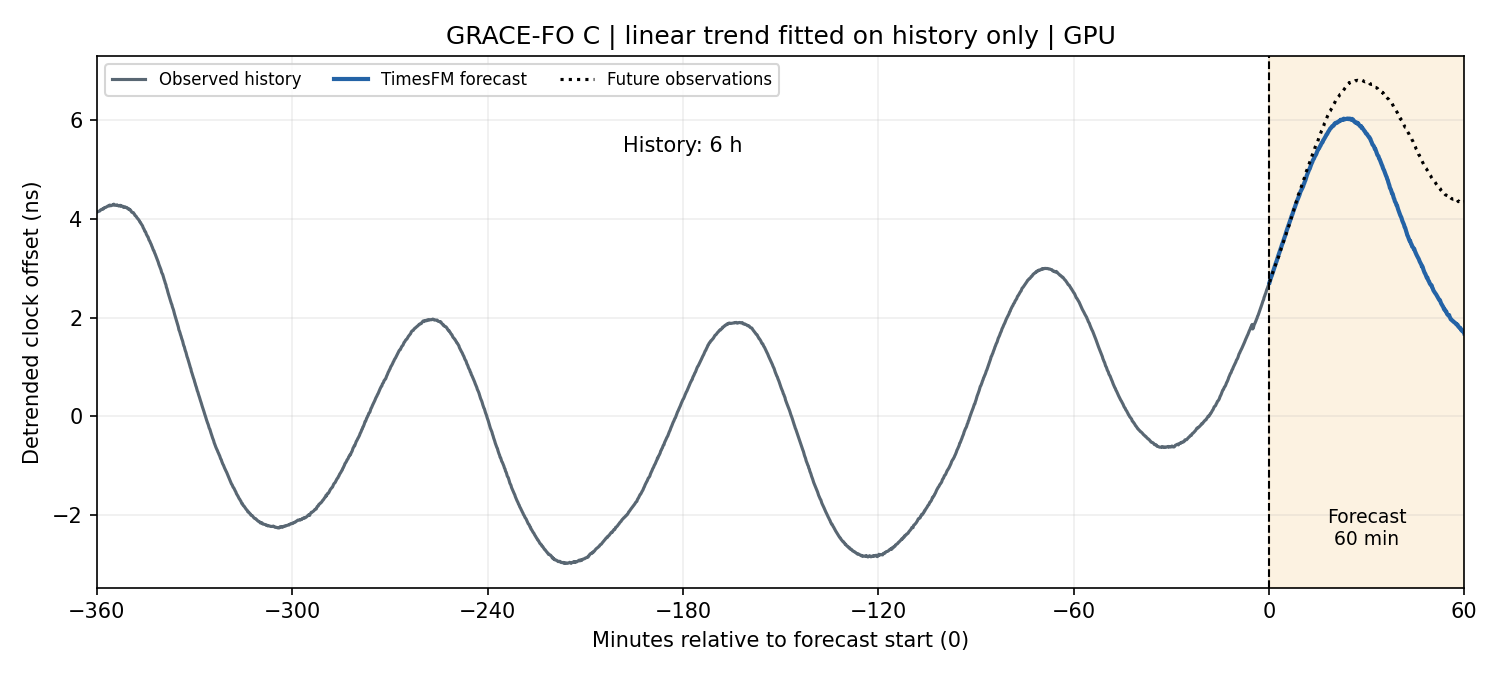
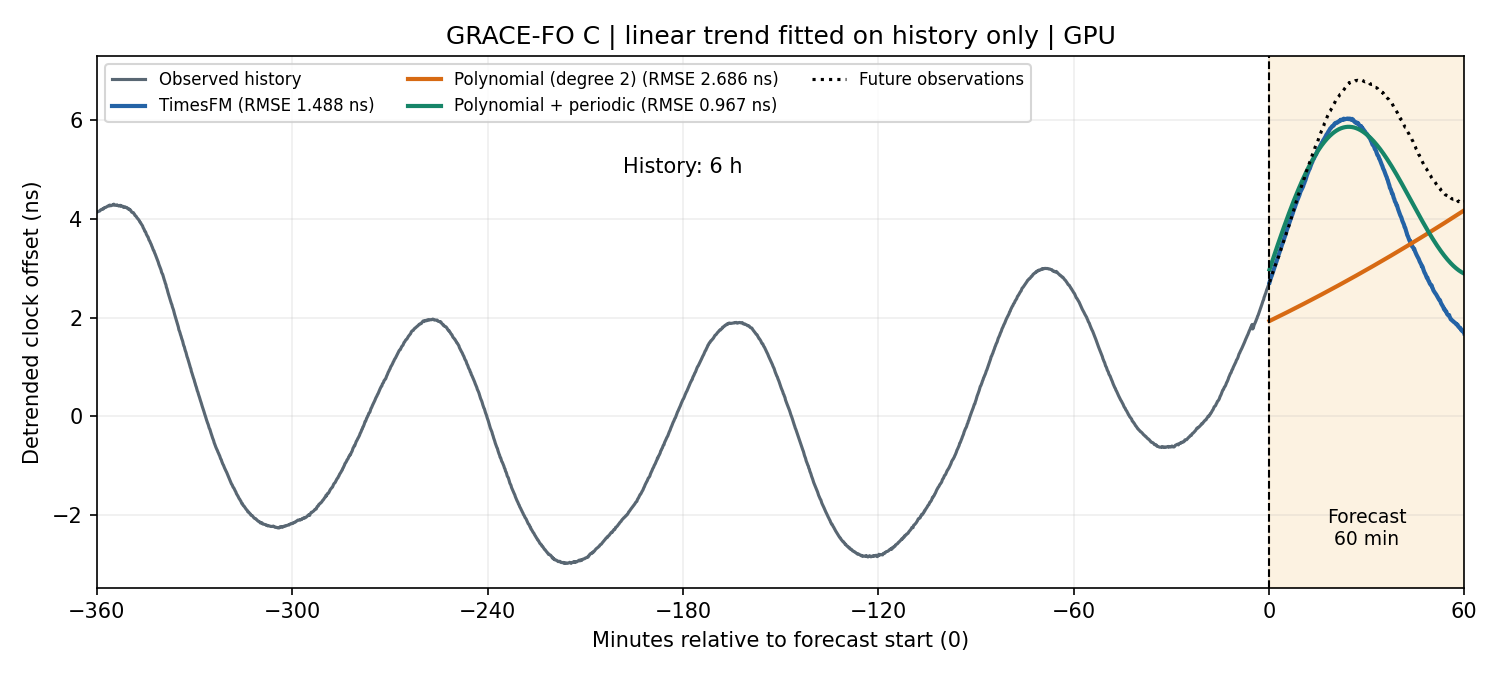
Compare TimesFM with quadratic and periodic clock models

diff --git a/main.py b/main.py
@@ -14,6 +14,29 @@ PREDICT_POINTS = 360
 ROOT = Path(__file__).resolve().parent
 
 
+def polynomial_forecasts(history_ns, horizon):
+    """两个对照都只看历史：二次多项式，以及二次多项式 + 一组正弦/余弦。"""
+    t = np.arange(1 - len(history_ns), 1) / 360  # 小时，起报点为 0
+    future = np.arange(1, horizon + 1) / 360
+    polynomial = np.polyval(np.polyfit(t, history_ns, 2), future)
+
+    def features(hours, period_minutes):
+        phase = 2 * np.pi * hours / (period_minutes / 60)
+        return np.column_stack([np.ones_like(hours), hours, hours**2,
+                                np.sin(phase), np.cos(phase)])
+
+    # 预先固定搜索范围和步长；按历史拟合误差选周期，不查看未来真值。
+    best_mse = np.inf
+    for period in range(60, 151):  # 60–150 分钟，每次增加 1 分钟
+        design = features(t, period)
+        coefficients = np.linalg.lstsq(design, history_ns, rcond=None)[0]
+        mse = np.mean((design @ coefficients - history_ns)**2)
+        if mse < best_mse:
+            best_mse, best_period = mse, period
+            periodic = features(future, period) @ coefficients
+    return polynomial, periodic, best_period
+
+
 def main():
     # 1. 选择 CPU 或 GPU；两者运行相同的模型。
     parser = argparse.ArgumentParser(description=__doc__)
@@ -41,7 +64,9 @@ def main():
     history_ns = (history - last) * 1e9
     print(f"历史 {len(history)} 点 -> 预报 {PREDICT_POINTS} 点，设备：{args.device}")
 
-    # 4. 简单对照：用最近 10 分钟拟合斜率，从最后观测值向后延伸。
+    # 4. 三种模型都只读取历史；多项式对照也使用完整的 6 小时。
+    polynomial, periodic, period = polynomial_forecasts(history_ns, PREDICT_POINTS)
+    # 保留 --model linear 快速示例：最近 10 分钟的斜率，从最后观测值延伸。
     slope, _ = np.polyfit(np.arange(-59, 1), history_ns[-60:], 1)
     linear = slope * np.arange(1, PREDICT_POINTS + 1)
     prediction = linear
@@ -59,23 +84,31 @@ def main():
                 [history_ns.astype(np.float32)], horizon=PREDICT_POINTS,
                 return_quantiles=False, make_positive=False, use_symmetric_averaging=False))
         prediction = result[0].forecast.astype(np.float64)
-    if prediction.shape != (PREDICT_POINTS,) or not np.isfinite(prediction).all():
-        raise ValueError("模型没有返回完整、有效的预报。")
+    forecasts = {args.model: prediction, "polynomial": polynomial, "periodic": periodic}
 
     # 5. 预测完成后才与真实值比较。RMSE 越小，预报越准。
     truth_ns = (truth - last) * 1e9
-    error = prediction - truth_ns
-    linear_error = linear - truth_ns
-    rmse = np.sqrt(np.mean(error**2))
-    print(f"{args.model} RMSE = {rmse:.4f} ns；线性对照 = {np.sqrt(np.mean(linear_error**2)):.4f} ns")
+    labels = {"timesfm": "TimesFM", "linear": "Linear (10 min)",
+              "polynomial": "Polynomial (degree 2)", "periodic": "Polynomial + periodic"}
+    columns = [sample[HISTORY_POINTS:, 0], truth]
+    header = ["receiver_seconds", "true_seconds"]
+    rmses = {}
+    print(f"历史拟合选出的周期：{period} 分钟")
+    for name, values in forecasts.items():
+        if values.shape != (PREDICT_POINTS,) or not np.isfinite(values).all():
+            raise ValueError(f"{name} 没有返回完整、有效的预报。")
+        error = values - truth_ns
+        rmses[name] = np.sqrt(np.mean(error**2))
+        print(f"{labels[name]} RMSE = {rmses[name]:.4f} ns")
+        columns.extend([last + values * 1e-9, error])
+        header.extend([f"{name}_seconds", f"{name}_error_ns"])
 
     # 6. 只输出一个 CSV 和一张图。再次运行会更新同一目录。
     output = ROOT / "outputs" / f"{args.model}-{args.device}"
     output.mkdir(parents=True, exist_ok=True)
-    np.savetxt(output / "prediction.csv", np.column_stack([
-        sample[HISTORY_POINTS:, 0], truth, last + prediction * 1e-9, error]),
-        delimiter=",", header="receiver_seconds,true_seconds,predicted_seconds,error_ns",
-        comments="", fmt=["%.0f", "%.17g", "%.17g", "%.10g"])
+    np.savetxt(output / "prediction.csv", np.column_stack(columns),
+        delimiter=",", header=",".join(header), comments="",
+        fmt=["%.0f", "%.17g"] + ["%.17g", "%.10g"] * len(forecasts))
     minutes = np.arange(1, PREDICT_POINTS + 1) * 10 / 60
     history_minutes = np.arange(1 - HISTORY_POINTS, 1) * 10 / 60
     # 只为绘图：用过去 6 小时拟合直线，历史、真值、预测都减去同一条线。
@@ -85,12 +118,13 @@ def main():
     fig, ax = plt.subplots(figsize=(10, 4.5))
     ax.plot(history_minutes, history_ns - np.polyval(trend, history_minutes),
             color="#596773", label="Observed history")
-    ax.plot(minutes, prediction - future_trend, color="#2463a6", linewidth=2,
-            label="TimesFM forecast" if args.model == "timesfm" else "Linear forecast")
+    for (name, values), color in zip(forecasts.items(), ["#2463a6", "#d76a13", "#168568"]):
+        ax.plot(minutes, values - future_trend, color=color, linewidth=2,
+                label=f"{labels[name]} (RMSE {rmses[name]:.3f} ns)")
     ax.plot(minutes, truth_ns - future_trend, ":", color="black", label="Future observations")
     ax.axvspan(0, minutes[-1], color="#f1b75c", alpha=0.18)
     ax.axvline(0, color="black", linestyle="--", linewidth=1)
-    ax.text(history_minutes[0] / 2, 0.82, f"History: {HISTORY_POINTS * 10 / 3600:g} h",
+    ax.text(history_minutes[0] / 2, 0.78, f"History: {HISTORY_POINTS * 10 / 3600:g} h",
             transform=ax.get_xaxis_transform(), ha="center")
     ax.text(minutes[-1] / 2, 0.08, f"Forecast\n{minutes[-1]:g} min",
             transform=ax.get_xaxis_transform(), ha="center", fontsize=9)

diff --git a/advanced/tests/test_simple.py b/advanced/tests/test_simple.py
@@ -1,14 +1,20 @@
 """Keep the short teaching path aligned with its real source window."""
 import csv
+from contextlib import redirect_stdout
+import io
 import os
 from pathlib import Path
 import subprocess
 import sys
+import tempfile
 import unittest
+from unittest.mock import patch
 
 import numpy as np
 
 ROOT = Path(__file__).resolve().parents[2]
+sys.path.insert(0, str(ROOT))
+import main as simple
 
 
 class SimpleExampleTests(unittest.TestCase):
@@ -29,16 +35,53 @@ class SimpleExampleTests(unittest.TestCase):
         self.assertIn("历史", run.stdout.decode("utf-8"))
         result = np.loadtxt(ROOT / "outputs/linear-cpu/prediction.csv", delimiter=",", skiprows=1)
         sample = np.loadtxt(ROOT / "data/clock.csv", delimiter=",", skiprows=1)
-        self.assertEqual(result.shape, (360, 4))
+        self.assertEqual(result.shape, (360, 8))
         self.assertEqual(result[0, 0], sample[2159, 0] + 10)
         np.testing.assert_array_equal(result[:, :2], sample[2160:])
-        error = (result[:, 2] - result[:, 1]) * 1e9
-        np.testing.assert_allclose(result[:, 3], error, atol=1e-5)
+        for prediction_column in (2, 4, 6):
+            error = (result[:, prediction_column] - result[:, 1]) * 1e9
+            np.testing.assert_allclose(result[:, prediction_column + 1], error, atol=1e-5)
         with (ROOT / "advanced/reference/metrics_by_window.csv").open(encoding="utf-8-sig", newline="") as stream:
             reference = next(row for row in csv.DictReader(stream)
                              if row["satellite"] == "C" and row["origin_receiver_time"] == "2025-06-02 00:00:00"
                              and row["method"] == "anchored_linear_10m" and row["horizon_minutes"] == "60")
         self.assertAlmostEqual(float(np.sqrt(np.mean(result[:, 3]**2))), float(reference["rmse_ns"]), delta=1e-6)
+
+    def test_quadratic_forecast_matches_analytical_future(self):
+        past = np.arange(1 - 2160, 1) / 360
+        future = np.arange(1, 361) / 360
+        polynomial, periodic, _ = simple.polynomial_forecasts(3 + 2 * past + 0.4 * past**2, 360)
+        expected = 3 + 2 * future + 0.4 * future**2
+        np.testing.assert_allclose(polynomial, expected, atol=1e-9)
+        np.testing.assert_allclose(periodic, expected, atol=1e-9)
+
+    def test_recovers_known_period_and_forecasts_unseen_cycle(self):
+        def signal(hours):
+            phase = 2 * np.pi * hours / (97 / 60)
+            return 3 + 2 * hours + 0.4 * hours**2 + 2 * np.sin(phase) - 0.7 * np.cos(phase)
+        past = np.arange(1 - 2160, 1) / 360
+        future = np.arange(1, 361) / 360
+        _, periodic, period = simple.polynomial_forecasts(signal(past), 360)
+        self.assertEqual(period, 97)
+        np.testing.assert_allclose(periodic, signal(future), atol=1e-9)
+
+    def test_future_observations_do_not_change_any_baseline_prediction(self):
+        sample = np.loadtxt(ROOT / "data/clock.csv", delimiter=",", skiprows=1)
+        changed = sample.copy()
+        changed[2160:, 1] += 30e-9
+        results = []
+        with tempfile.TemporaryDirectory() as directory:
+            for data in (sample, changed):
+                with patch.object(simple, "ROOT", Path(directory)), \
+                        patch.object(simple.np, "loadtxt", return_value=data), \
+                        patch.object(sys, "argv", ["main.py", "--model", "linear"]), \
+                        redirect_stdout(io.StringIO()):
+                    simple.main()
+                results.append(np.loadtxt(Path(directory) / "outputs/linear-cpu/prediction.csv",
+                                          delimiter=",", skiprows=1))
+        np.testing.assert_array_equal(results[0][:, [2, 4, 6]], results[1][:, [2, 4, 6]])
+        np.testing.assert_allclose(results[1][:, [3, 5, 7]] - results[0][:, [3, 5, 7]],
+                                   -30, atol=1e-5)
 
 
 if __name__ == "__main__":

diff --git a/README.md b/README.md
@@ -2,12 +2,12 @@
 
 **只读 [main.py](main.py) 一个文件，就能看完实验。**
 
-用 C 星**过去 6 小时的钟差，预测未来 60 分钟**。数据已附带，无需自己下载。
+用 C 星**过去 6 小时的钟差，预测未来 60 分钟**，比较 **TimesFM、二次多项式、二次多项式 + 周期项**。数据已附带，无需自己下载。
 
 默认使用 Google 官方预训练 **TimesFM 3.0**（`google/timesfm-3.0-pytorch`），没有在钟差数据上微调，也没有加载 LoRA；本例是零样本预测。模型自身的内部去趋势保留官方默认设置。
 
 ```text
-读数据 → 取历史 → TimesFM 预测 → 与真实值比较 → 看去趋势后的预报图
+读数据 → 取历史 → 三种模型预测 → 与真实值比较 → 看同一张去趋势图
 ```
 
 ## 1. 准备
@@ -46,13 +46,33 @@ CPU、GPU 使用**相同数据、相同模型**，只是运行设备不同；数
 
 打开 `outputs/timesfm-cpu/result.png`（GPU 对应 `timesfm-gpu`）：
 
-**一张去趋势后的图：过去 6 小时观测 → 起报虚线 → 未来 60 分钟预测。** 灰线是历史，蓝线是预测，黑色点线是未来真实值，仅用于比较；浅黄色区域为预测窗口。
+**一张去趋势后的图：过去 6 小时观测 → 起报虚线 → 未来 60 分钟预测。** 灰线是历史，蓝线为 TimesFM，橙线为多项式，绿线为多项式 + 周期项。黑色点线是未来真实值，仅用于比较；浅黄色区域为预测窗口。
+
+三种模型使用**同一段 6 小时历史**：
+
+| 模型 | 学生需要理解的内容 |
+|---|---|
+| TimesFM | 直接加载官方预训练模型，无需训练 |
+| 二次多项式 | 用最小二乘拟合 `a + b*t + c*t²`，向未来延伸 |
+| 二次多项式 + 周期项 | 在多项式上加 `A*sin(2πt/T) + B*cos(2πt/T)`，描述重复波动 |
+
+`t` 是相对起报点的时间，代码中单位为小时。周期 `T` 在预先固定的 **60–150 分钟**范围内按 1 分钟步长搜索：每个候选周期都拟合上述五个系数，选择**历史拟合误差最小**的周期。本例选出 **93 分钟**；没有用未来真实值选择周期或系数。
 
 趋势是**仅用历史数据拟合的直线**。绘图时，历史、未来真值和预测统一减去这条直线及其外推值，单位为 ns。这样能看清细小变化；这一步只影响显示，不改变模型输入、预测值或 RMSE，也不是模型微调。
 
-![去趋势后的历史观测与未来预报](data/example.png)
+![去趋势后的历史观测与三种模型预报](data/example.png)
 
-同目录的 `prediction.csv` 有四列：时间、真实钟差、预测钟差、误差。终端会显示 RMSE，单位 ns，越小越好。再次运行会更新结果文件。
+本机实测的未来 60 分钟 RMSE（ns，越小越好）：
+
+| 模型 | CPU | GPU |
+|---|---:|---:|
+| TimesFM（未微调） | 1.4563 | 1.4875 |
+| 二次多项式 | 2.6856 | 2.6856 |
+| 二次多项式 + 周期项 | **0.9666** | **0.9666** |
+
+图中展示 GPU 结果。本窗口中，多项式 + 周期项误差最小；这不意味着它在所有日期都最好。CPU/GPU 选项控制 TimesFM 的推理设备，两个小型最小二乘对照均由 NumPy 在 CPU 上计算。
+
+同目录的 `prediction.csv` 有八列：时间、真实钟差，以及三种模型各自的“预测钟差（秒）、误差（ns）”。列名带 `timesfm`、`polynomial`、`periodic` 前缀。终端和图例显示各模型 RMSE；再次运行会更新结果文件。
 
 读代码时只跟着六个中文注释走：选设备、读数据、换单位、预测、算误差、画图。`truth` 是未来真实值，**只用于最后评分，不能输入模型**。
 
@@ -63,6 +83,6 @@ python -m pip install -r requirements.txt
 python main.py --model linear
 ```
 
-它只做线性预报，运行在 CPU。跑通后，再运行上面的 CPU/GPU TimesFM 命令。
+这个快速示例把 TimesFM 换成最近 10 分钟的线性外推，同时保留两个多项式对照，全部运行在 CPU。其 CSV 中首个模型前缀为 `linear`。跑通后，再运行上面的 CPU/GPU TimesFM 命令，即可得到三种目标模型的比较图。
 
 本例是一个固定窗口的入门实验，不代表全年精度。数据使用说明见 [data/README.md](data/README.md)；模型权重限教学研究等许可用途，见 [来源与许可](DATA_SOURCES.md)。完整多窗口实验放在 [advanced/](advanced/README.md)，入门时可以先不看。

diff --git a/advanced/reference/VALIDATION.md b/advanced/reference/VALIDATION.md
@@ -1,5 +1,13 @@
 # 验证记录
 
+## 简明版三模型对照（2026-11-16）
+
+- `main.py` 的默认实验在同一 6 h 历史上比较原始 TimesFM、二次多项式、二次多项式 + 一组正弦/余弦项，预测同一未来 60 min。多项式的所有系数都通过历史最小二乘拟合，不作末点强制对齐。
+- 周期搜索范围预先固定为 60–150 min，步长 1 min；按历史拟合均方误差选择，本窗口为 93 min。未来真值不参与周期或系数选择。
+- 使用下述已有 CPU、GPU 环境和同一固定版本权重重新实跑。TimesFM RMSE 分别仍为 1.456274 / 1.487541 ns；二次多项式为 2.685598 ns；二次多项式 + 周期项为 0.966630 ns。两个最小二乘模型始终使用 NumPy/CPU。
+- 从两个设备导出的八列 CSV 独立复算每种模型的误差及 RMSE，与终端数值一致。`data/example.png` 更新为 GPU 实际运行的三模型对比图，所有曲线共用同一条仅由历史拟合的绘图趋势。
+- 15 项测试通过，包括新增的二次解析外推、已知 97 min 周期的恢复及未来外推、修改未来真值不会改变三个传统模型的预测。单窗口结果不替换下文完整实验的多窗口统计。
+
 ## 简明版入口（2026-11-16）
 
 - 新增 `main.py`，按六个步骤展示完整流程，默认仅使用 C 星第一个固定窗口。数据被压缩为两列、2520 行；与原样本逐点一致。输出使用 UTF-8，同时检查英文 Windows 终端的中文兼容性。

diff --git a/data/README.md b/data/README.md
@@ -16,4 +16,4 @@
 
 文件取自 `sample/CLK1B_2025-06-01_to_2025-06-03_C.txt` 的第 3 列（历元秒数）和第 6 列（eps_time），不改变其数值。此窗口没有缺测、非零质量标记或 clock_id 变化。
 
-`sample/` 保存原来的三天 C/D 数据和六份原始日文件的哈希清单；详细合并规则见 [完整数据说明](../advanced/docs/data.md)，原始来源与引用见 [DATA_SOURCES.md](../DATA_SOURCES.md)。`example.png` 为 GPU 实际运行的单图：历史、未来真值与预测统一减去仅由历史拟合的线性趋势，展示过去 6 h 至未来 60 min 的变化；原始钟差和输出 CSV 不做这个绘图变换。
+`sample/` 保存原来的三天 C/D 数据和六份原始日文件的哈希清单；详细合并规则见 [完整数据说明](../advanced/docs/data.md)，原始来源与引用见 [DATA_SOURCES.md](../DATA_SOURCES.md)。`example.png` 为 GPU 实际运行的三模型对比图：TimesFM、二次多项式、二次多项式 + 周期项。历史、未来真值与所有预测统一减去仅由历史拟合的线性趋势，展示过去 6 h 至未来 60 min 的变化；原始钟差和输出 CSV 不做这个绘图变换。
